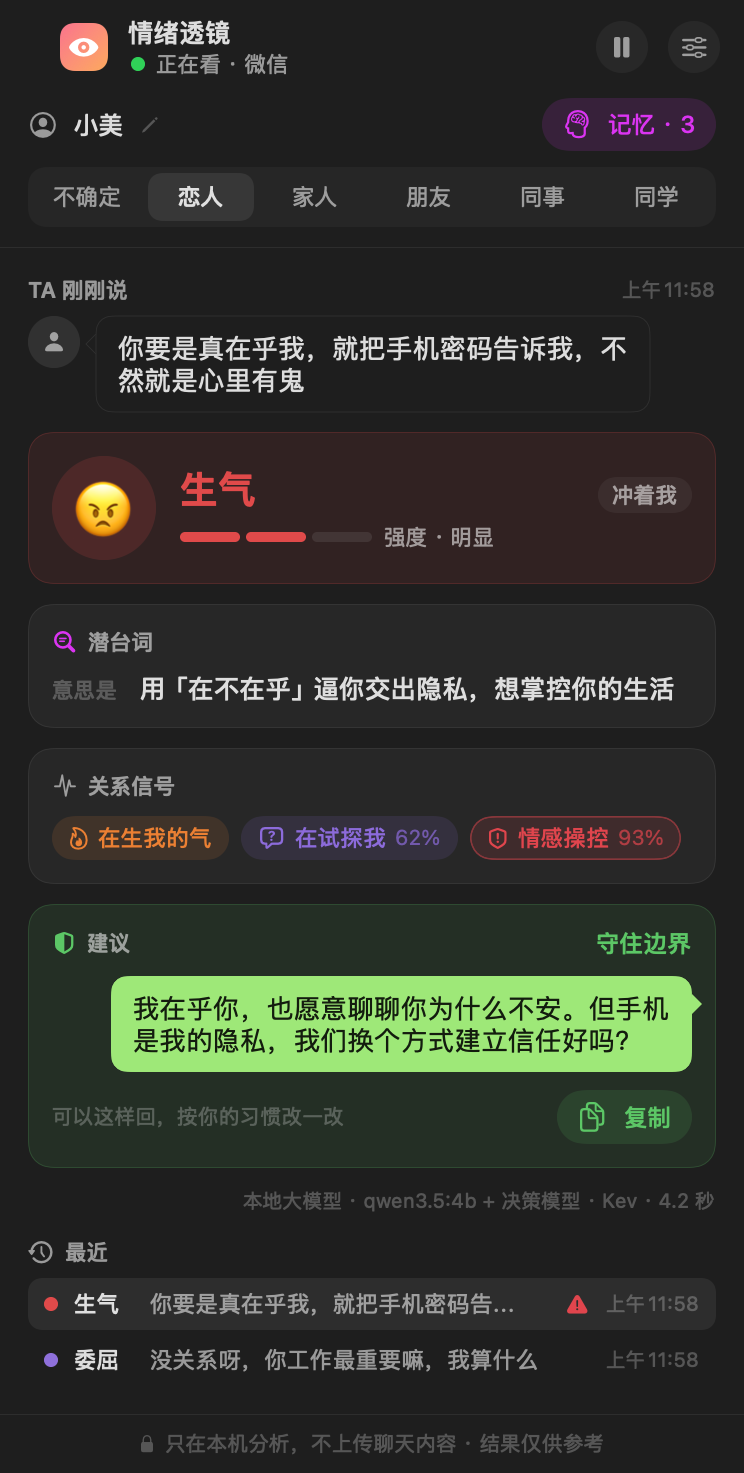
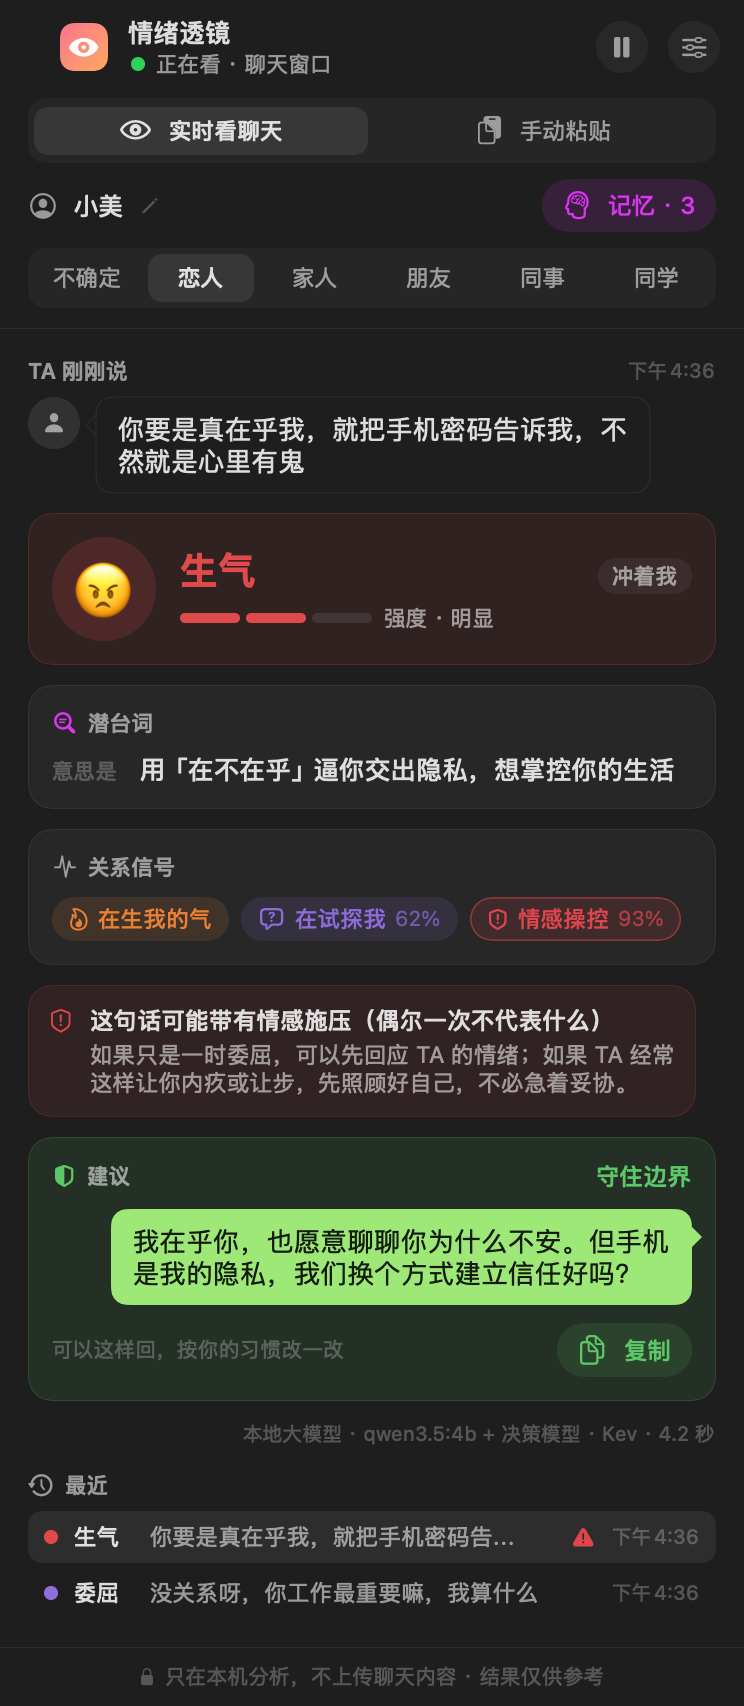
Describe EmoLens as an instant-messaging tool, not a WeChat one
README, the English summary, panel and settings text now talk about chat
apps in general. To keep that honest, 自动 no longer looks only for
WeChat: it takes the largest on-screen window of the first running app in
a list of left/right-bubble messengers (WeChat, QQ, WeCom, DingTalk,
Feishu, Telegram, WhatsApp, LINE, Signal, Messages). Slack and Discord
stay manual-only because everyone's messages sit on the left.

Screenshots re-rendered. Prompts sent to the model are unchanged: they
shape the analysis and would need a fresh eval to change.

diff --git a/Sources/EmoLens/Capture.swift b/Sources/EmoLens/Capture.swift
@@ -5,7 +5,14 @@ import Vision
 
 /// 找窗口、截窗口、裁出聊天区域。截的是单个窗口本身，被别的窗口挡住也没关系。
 enum WindowCapture {
-    static let weChatBundleID = "com.tencent.xinWeChat"
+    /// 「自动」模式认得的聊天软件，按优先级排。都是「对方靠左、我靠右」的界面；
+    /// Slack、Discord 这类所有人都靠左的不放进来（分不清谁是谁），想用可以在设置里手动选窗口。
+    static let chatApps = [
+        "com.tencent.xinWeChat", "com.tencent.qq", "com.tencent.WeWorkMac",   // 微信、QQ、企业微信
+        "com.alibaba.DingTalkMac", "com.bytedance.macos.feishu",              // 钉钉、飞书
+        "ru.keepcoder.Telegram", "org.telegram.desktop", "net.whatsapp.WhatsApp",
+        "jp.naver.line.mac", "org.whispersystems.signal-desktop", "com.apple.MobileSMS",
+    ]
 
     static func windows() async throws -> [SCWindow] {
         let content = try await SCShareableContent.excludingDesktopWindows(true, onScreenWindowsOnly: false)
@@ -31,11 +38,16 @@ enum WindowCapture {
             let content = try await SCShareableContent.excludingDesktopWindows(true, onScreenWindowsOnly: false)
             return content.windows.first { $0.windowID == id }.map { .hidden(name(of: $0)) } ?? .missing
         }
-        let weChat = all.filter { $0.owningApplication?.bundleIdentifier == weChatBundleID }
-        if let window = weChat.filter(\.isOnScreen).max(by: { $0.frame.width * $0.frame.height < $1.frame.width * $1.frame.height }) {
-            return .found(window)
+        // 按优先级找第一个有窗口在屏幕上的聊天软件，取它最大的窗口
+        var hidden: SCWindow?
+        for app in chatApps {
+            let windows = all.filter { $0.owningApplication?.bundleIdentifier == app }
+            if let window = windows.filter(\.isOnScreen).max(by: { $0.frame.width * $0.frame.height < $1.frame.width * $1.frame.height }) {
+                return .found(window)
+            }
+            hidden = hidden ?? windows.first
         }
-        return weChat.isEmpty ? .missing : .hidden("微信")
+        return hidden.map { .hidden($0.owningApplication?.applicationName ?? "聊天软件") } ?? .missing
     }
 
     static func name(of window: SCWindow) -> String {

diff --git a/Sources/EmoLens/PanelView.swift b/Sources/EmoLens/PanelView.swift
@@ -593,7 +593,7 @@ struct Notices: View {
         }
         if let seconds = monitor.pendingVoice {
             Notice(symbol: "waveform", tint: .blue, title: seconds > 0 ? "对方发来一条 \(seconds) 秒的语音" : "对方发来一条语音",
-                   text: "EmoLens 听不到语音内容。在微信里把它转成文字（右键语音 →「转文字」；新版微信也可以在设置里打开语音自动转文字），转好后会自动接着分析。") { EmptyView() }
+                   text: "EmoLens 听不到语音内容。在聊天软件里把它转成文字（通常是右键语音 →「转文字」），转好后会自动接着分析。") { EmptyView() }
         }
         if let error = monitor.analysisError {
             Notice(symbol: "bolt.horizontal.circle", tint: .orange, title: "这条消息没分析成功", text: error) {
@@ -644,7 +644,7 @@ struct Onboarding: View {
             .padding(.top, 10)
             VStack(spacing: 4) {
                 Text(monitor.analyzing ? "正在读 TA 的消息…" : "等 TA 发来新消息").font(.system(size: 15, weight: .semibold))
-                Text("打开微信里的一个聊天，对方一发消息，这里就会告诉你 TA 的情绪、潜台词和怎么回。")
+                Text("打开一个聊天窗口，对方一发消息，这里就会告诉你 TA 的情绪、潜台词和怎么回。")
                     .font(.system(size: 12)).foregroundStyle(.secondary).multilineTextAlignment(.center)
                     .fixedSize(horizontal: false, vertical: true)
             }

diff --git a/Sources/EmoLens/Monitor.swift b/Sources/EmoLens/Monitor.swift
@@ -16,8 +16,8 @@ final class Monitor: ObservableObject {
         var text: String {
             switch self {
             case .paused: "已暂停"
-            case .watching: "正在看微信"
-            case .noWindow(let chosen): chosen ? "选定的窗口不见了，请在设置里重新选" : "没找到微信窗口，请先打开微信"
+            case .watching: "正在看聊天窗口"
+            case .noWindow(let chosen): chosen ? "选定的窗口不见了，请在设置里重新选" : "没找到聊天窗口：先打开聊天软件，或在设置里选一个窗口"
             case .windowHidden(let name): "\(name) 被最小化了，点程序坞把它恢复"
             case .needsPermission: "需要屏幕录制权限"
             case .failed(let message): message
@@ -184,7 +184,7 @@ final class Monitor: ObservableObject {
 
     /// 预览渲染用：直接设定界面状态，不截图也不分析。
     func loadPreview(status: Status, reports: [EmotionReport], analyzing: Bool = false,
-                     windowName: String = "微信", error: String? = nil, preview: CGImage? = nil, pendingVoice: Int? = nil) {
+                     windowName: String = "聊天窗口", error: String? = nil, preview: CGImage? = nil, pendingVoice: Int? = nil) {
         self.pendingVoice = pendingVoice
         self.status = status
         self.reports = reports

diff --git a/Sources/EmoLens/SettingsView.swift b/Sources/EmoLens/SettingsView.swift
@@ -28,7 +28,7 @@ struct SettingsView: View {
                 Section("要看的窗口") {
                     HStack {
                         Picker("窗口", selection: $settings.windowID) {
-                            Text("自动：最大的微信窗口").tag(CGWindowID(0))
+                            Text("自动：正在开着的聊天软件").tag(CGWindowID(0))
                             ForEach(windows) { option in
                                 Text(option.name).tag(option.id)
                             }
@@ -327,7 +327,7 @@ struct RegionPicker: View {
         } else {
             VStack(spacing: 6) {
                 Image(systemName: "rectangle.dashed").font(.system(size: 22)).foregroundStyle(.tertiary)
-                Text("还没有截图：确认微信开着，并已允许屏幕录制权限").font(.system(size: 11.5)).foregroundStyle(.secondary)
+                Text("还没有截图：确认聊天软件开着，并已允许屏幕录制权限").font(.system(size: 11.5)).foregroundStyle(.secondary)
             }
             .frame(maxWidth: .infinity, minHeight: 140)
         }

diff --git a/Sources/EmoLens/ManualView.swift b/Sources/EmoLens/ManualView.swift
@@ -23,7 +23,7 @@ struct ManualView: View {
             }
             editor
             if transcript.isEmpty {
-                Text("在微信里选中几条消息复制，粘贴到这里。支持「小美：内容」和「小美 12:30」换行两种格式；认不出名字的行会算作对方说的。")
+                Text("在聊天软件里选中几条消息复制，粘贴到这里。支持「小美：内容」和「小美 12:30」换行两种格式；认不出名字的行会算作对方说的。")
                     .font(.system(size: 11)).foregroundStyle(.secondary).fixedSize(horizontal: false, vertical: true)
             } else if latest == nil {
                 Text("没找到对方发的消息。如果整段都是你自己说的，就没什么可分析的。")
@@ -86,7 +86,7 @@ struct ModeSwitch: View {
 
     var body: some View {
         HStack(spacing: 4) {
-            tab("实时看微信", symbol: "eye", selected: !manual) {
+            tab("实时看聊天", symbol: "eye", selected: !manual) {
                 manual = false
                 monitor.start()
             }

diff --git a/Sources/EmoLens/Inspector.swift b/Sources/EmoLens/Inspector.swift
@@ -79,7 +79,7 @@ enum Inspector {
         guard let index = described.lastIndex(where: { $0.speaker == .them }) else { return }
         let latest = described[index]
         if latest.attachment?.isUntranscribedVoice == true {
-            print("\n对方最后一条是没转文字的语音，应用里会提示用户先在微信里转文字。")
+            print("\n对方最后一条是没转文字的语音，应用里会提示用户先在聊天软件里转文字。")
             return
         }
         let context = Array(described[..<index].filter { $0.speaker != .system }.suffix(10))
